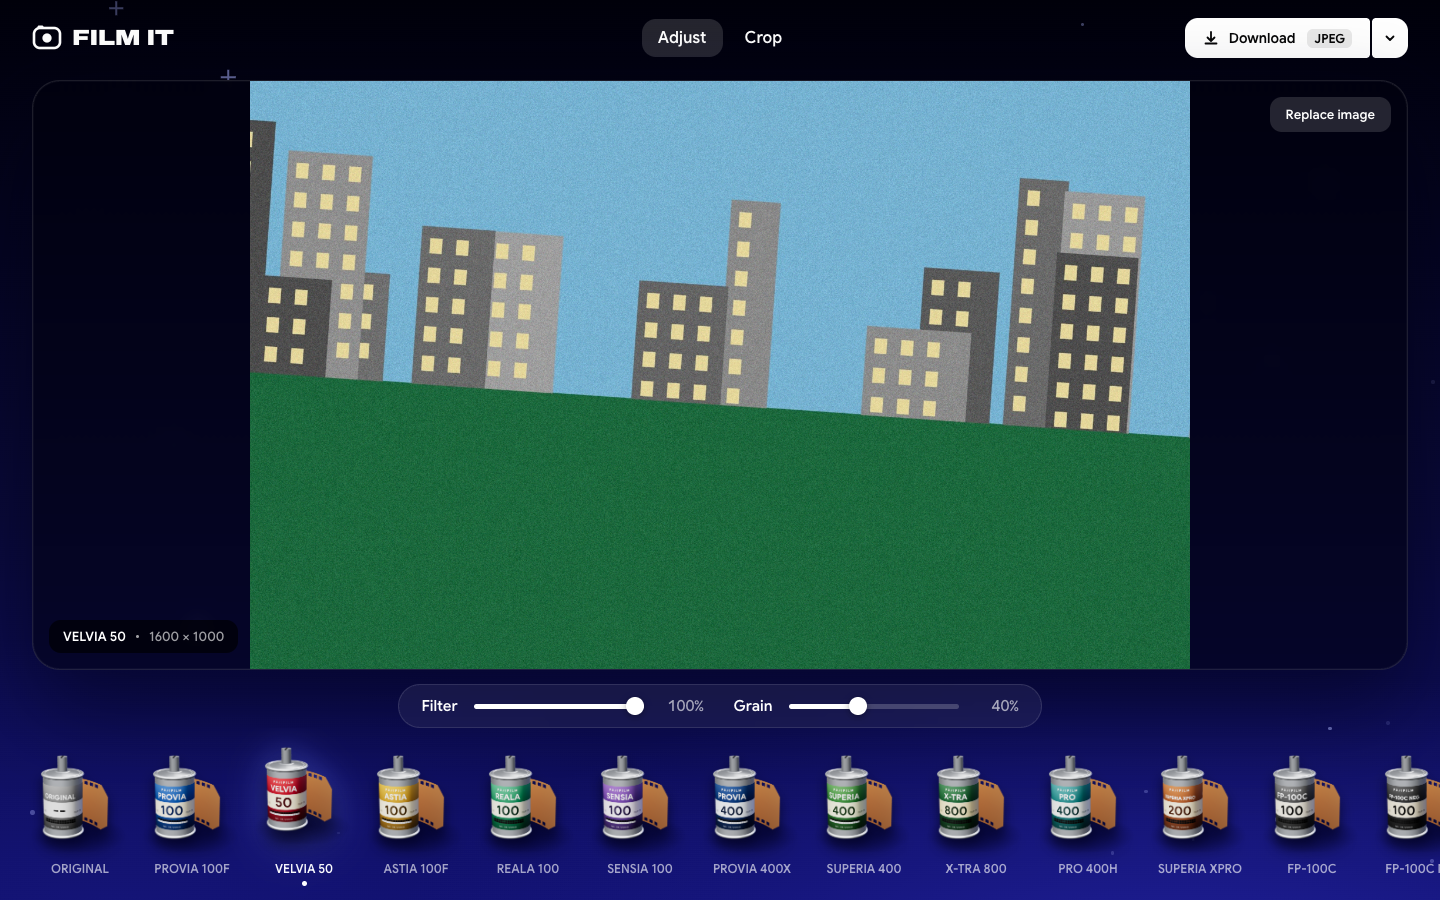
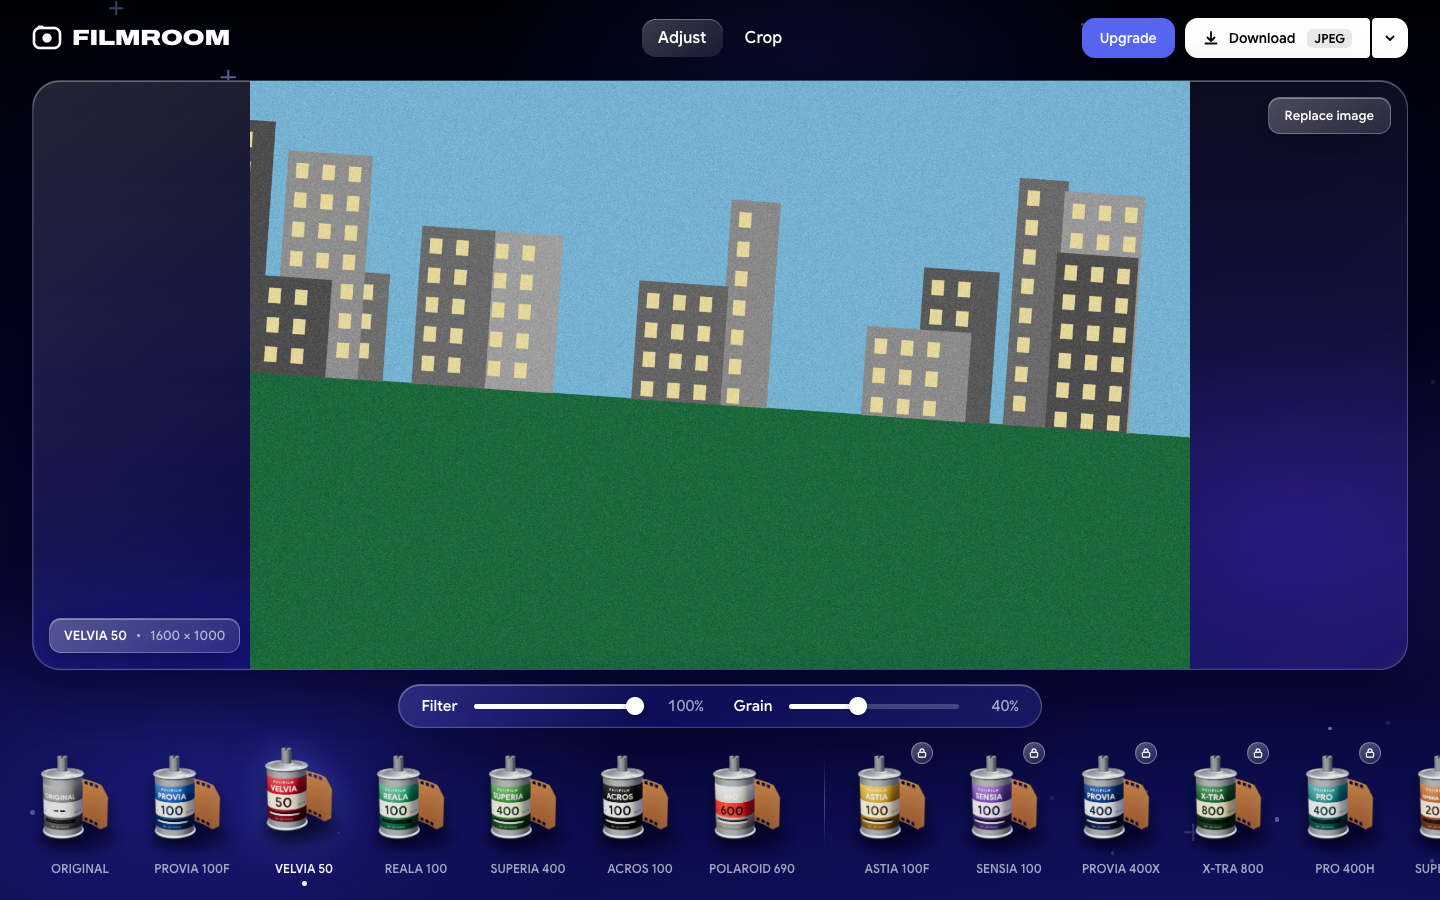
Rename to Filmroom, refresh README screenshot, tighten mobile header

diff --git a/index.html b/index.html
@@ -3,7 +3,7 @@
 <head>
 <meta charset="utf-8">
 <meta name="viewport" content="width=device-width, initial-scale=1">
-<title>Film it</title>
+<title>Filmroom</title>
 <link rel="preconnect" href="https://fonts.googleapis.com">
 <link rel="preconnect" href="https://fonts.gstatic.com" crossorigin>
 <link href="https://fonts.googleapis.com/css2?family=Archivo:wdth,wght@100..125,100..900&family=Google+Sans:wght@400..700&display=swap" rel="stylesheet">
@@ -225,8 +225,8 @@
   @media (max-width:560px) {
     .plans { grid-template-columns:minmax(0,1fr); } .sheet { padding:30px 18px 22px; border-radius:24px; }
     .sheet h2 { font-size:26px; padding:0 34px; } .sheet .sub { margin-bottom:22px; } .modal { padding:12px; }
-    .top { grid-template-columns:auto 1fr; padding:0 12px; } .logo { font-size:17px; gap:8px; } .logo svg { width:24px; height:24px; }
-    .topr { gap:6px; } .btn.sm { padding:0 12px; } .fmt { display:none; } .split #dl { gap:6px; }
+    .top { grid-template-columns:auto 1fr; padding:0 10px; } .logo { font-size:15px; gap:6px; } .logo svg { width:20px; height:20px; }
+    .topr { gap:5px; } .btn.sm { padding:0 10px; } .split .caret { padding:0 9px; } .fmt { display:none; } .split #dl { gap:6px; }
     .stage { padding:4px 12px 10px; } .dock { padding:0 12px; } .card { padding:10px 16px; gap:10px 20px; } input[type=range] { width:120px; }
   }
 </style>
@@ -257,7 +257,7 @@
   <header class="top">
     <div class="logo display">
       <svg width="30" height="30" viewBox="0 0 30 30" aria-hidden="true"><rect x="2" y="5" width="26" height="20" rx="6" fill="none" stroke="#fff" stroke-width="2.6"/><circle cx="15" cy="15" r="4.6" fill="#fff"/><rect x="5.5" y="2.5" width="6" height="3.5" rx="1.5" fill="#fff"/></svg>
-      Film it
+      Filmroom
     </div>
     <nav class="nav"><button class="navbtn" id="adjtab" disabled>Adjust</button><button class="navbtn" id="cropbtn" disabled>Crop</button></nav>
     <div class="topr"><button class="btn blurple sm" id="planbtn">Upgrade</button><div class="split">
@@ -337,7 +337,7 @@ const PLANS = {
 };
 const FREE_LOOKS = ['ORIG', 'PROV', 'VELV', 'REAL', 'S400', 'ACRS', 'POLA'];   // everything else is Pro
 const FREE_MAX_PX = 2048, FREE_FORMATS = ['png', 'jpeg'];
-let plan = 'free'; try { const p = localStorage.getItem('filmit.plan'); if (p && PLANS[p]) plan = p; } catch (e) {}
+let plan = 'free'; try { const p = (localStorage.getItem('filmroom.plan') || localStorage.getItem('filmit.plan')); if (p && PLANS[p]) plan = p; } catch (e) {}
 FILMS.sort((a, b) => FREE_LOOKS.includes(b.id) - FREE_LOOKS.includes(a.id));
 const isPro = () => plan !== 'free';
 const lookLocked = f => !isPro() && !FREE_LOOKS.includes(f.id);
@@ -466,7 +466,7 @@ const gl = cv.getContext('webgl2', { preserveDrawingBuffer:true, antialias:false
 let prog, imgTex, uUseLut, uMix, uGrain, uSize, U = {};
 const lutCache = {};
 function initGL() {
-  if (!gl) { alert('Film it needs WebGL2 (any current browser).'); return; }
+  if (!gl) { alert('Filmroom needs WebGL2 (any current browser).'); return; }
   const mk = (t, src) => { const s = gl.createShader(t); gl.shaderSource(s, src); gl.compileShader(s);
     if (!gl.getShaderParameter(s, gl.COMPILE_STATUS)) throw new Error(gl.getShaderInfoLog(s)); return s; };
   prog = gl.createProgram();
@@ -498,7 +498,7 @@ async function getLut(name) {
 }
 
 // ---------- App ----------
-let hasImage = false, current = FILMS[0], fileName = 'film-it', token = 0;
+let hasImage = false, current = FILMS[0], fileName = 'filmroom', token = 0;
 
 FILMS.forEach((f, i) => {
   const b = document.createElement('button');
@@ -772,7 +772,7 @@ async function decode(blob) {
 
 async function load(blob) {
   if (!isImageLike(blob)) { toast('That doesn\'t look like an image file.'); return; }
-  fileName = (blob.name || 'film-it').replace(/\.[^.]+$/, '');
+  fileName = (blob.name || 'filmroom').replace(/\.[^.]+$/, '');
   $('fname').textContent = $('docname').textContent = fileName;
   let bmp;
   try { bmp = await decode(blob); toast('', 1); }
@@ -910,7 +910,7 @@ const XBTN = '<button class="x" data-close aria-label="Close"><svg width="14" he
 function openModal() { $('modal').classList.add('open'); document.body.classList.add('modal-open'); const x = sheet.querySelector('.x'); if (x) x.focus({ preventScroll:true }); }
 function closeModal() { $('modal').classList.remove('open'); document.body.classList.remove('modal-open'); }
 function openPlans(opts = {}) { renderPlans(opts); openModal(); }
-function setPlan(p) { plan = p; try { localStorage.setItem('filmit.plan', p); } catch (e) {} refreshPlanUI(); }
+function setPlan(p) { plan = p; try { localStorage.setItem('filmroom.plan', p); } catch (e) {} refreshPlanUI(); }
 function updateProTag() { $('protag').classList.toggle('on', hasImage && lookLocked(current)); }
 function refreshPlanUI() {
   document.body.classList.toggle('is-pro', isPro());

diff --git a/README.md b/README.md
@@ -1,10 +1,10 @@
-# Film it
+# Filmroom
 
 Give any photo the look of classic Fujifilm and Polaroid film stocks, add grain, crop and straighten, then download it in the format you want. Everything runs in your browser, so your photos never leave your device.
 
 **[Open the app](https://siddharthsimharaju.github.io/film-it/)**
 
-![Film it](docs/screenshot.png)
+![Filmroom](docs/screenshot.png)
 
 ## Features
 
@@ -48,4 +48,4 @@ Auto-straighten, HEIC and TIFF decoding use [heic2any](https://github.com/alexco
 
 ## About me
 
-Hi, I'm Siddharth. Film it is a small project I designed and built with [Claude Code](https://claude.com/claude-code). You can find me on GitHub at [@SiddharthSimharaju](https://github.com/SiddharthSimharaju).
+Hi, I'm Siddharth. Filmroom is a small project I designed and built with [Claude Code](https://claude.com/claude-code). You can find me on GitHub at [@SiddharthSimharaju](https://github.com/SiddharthSimharaju).
